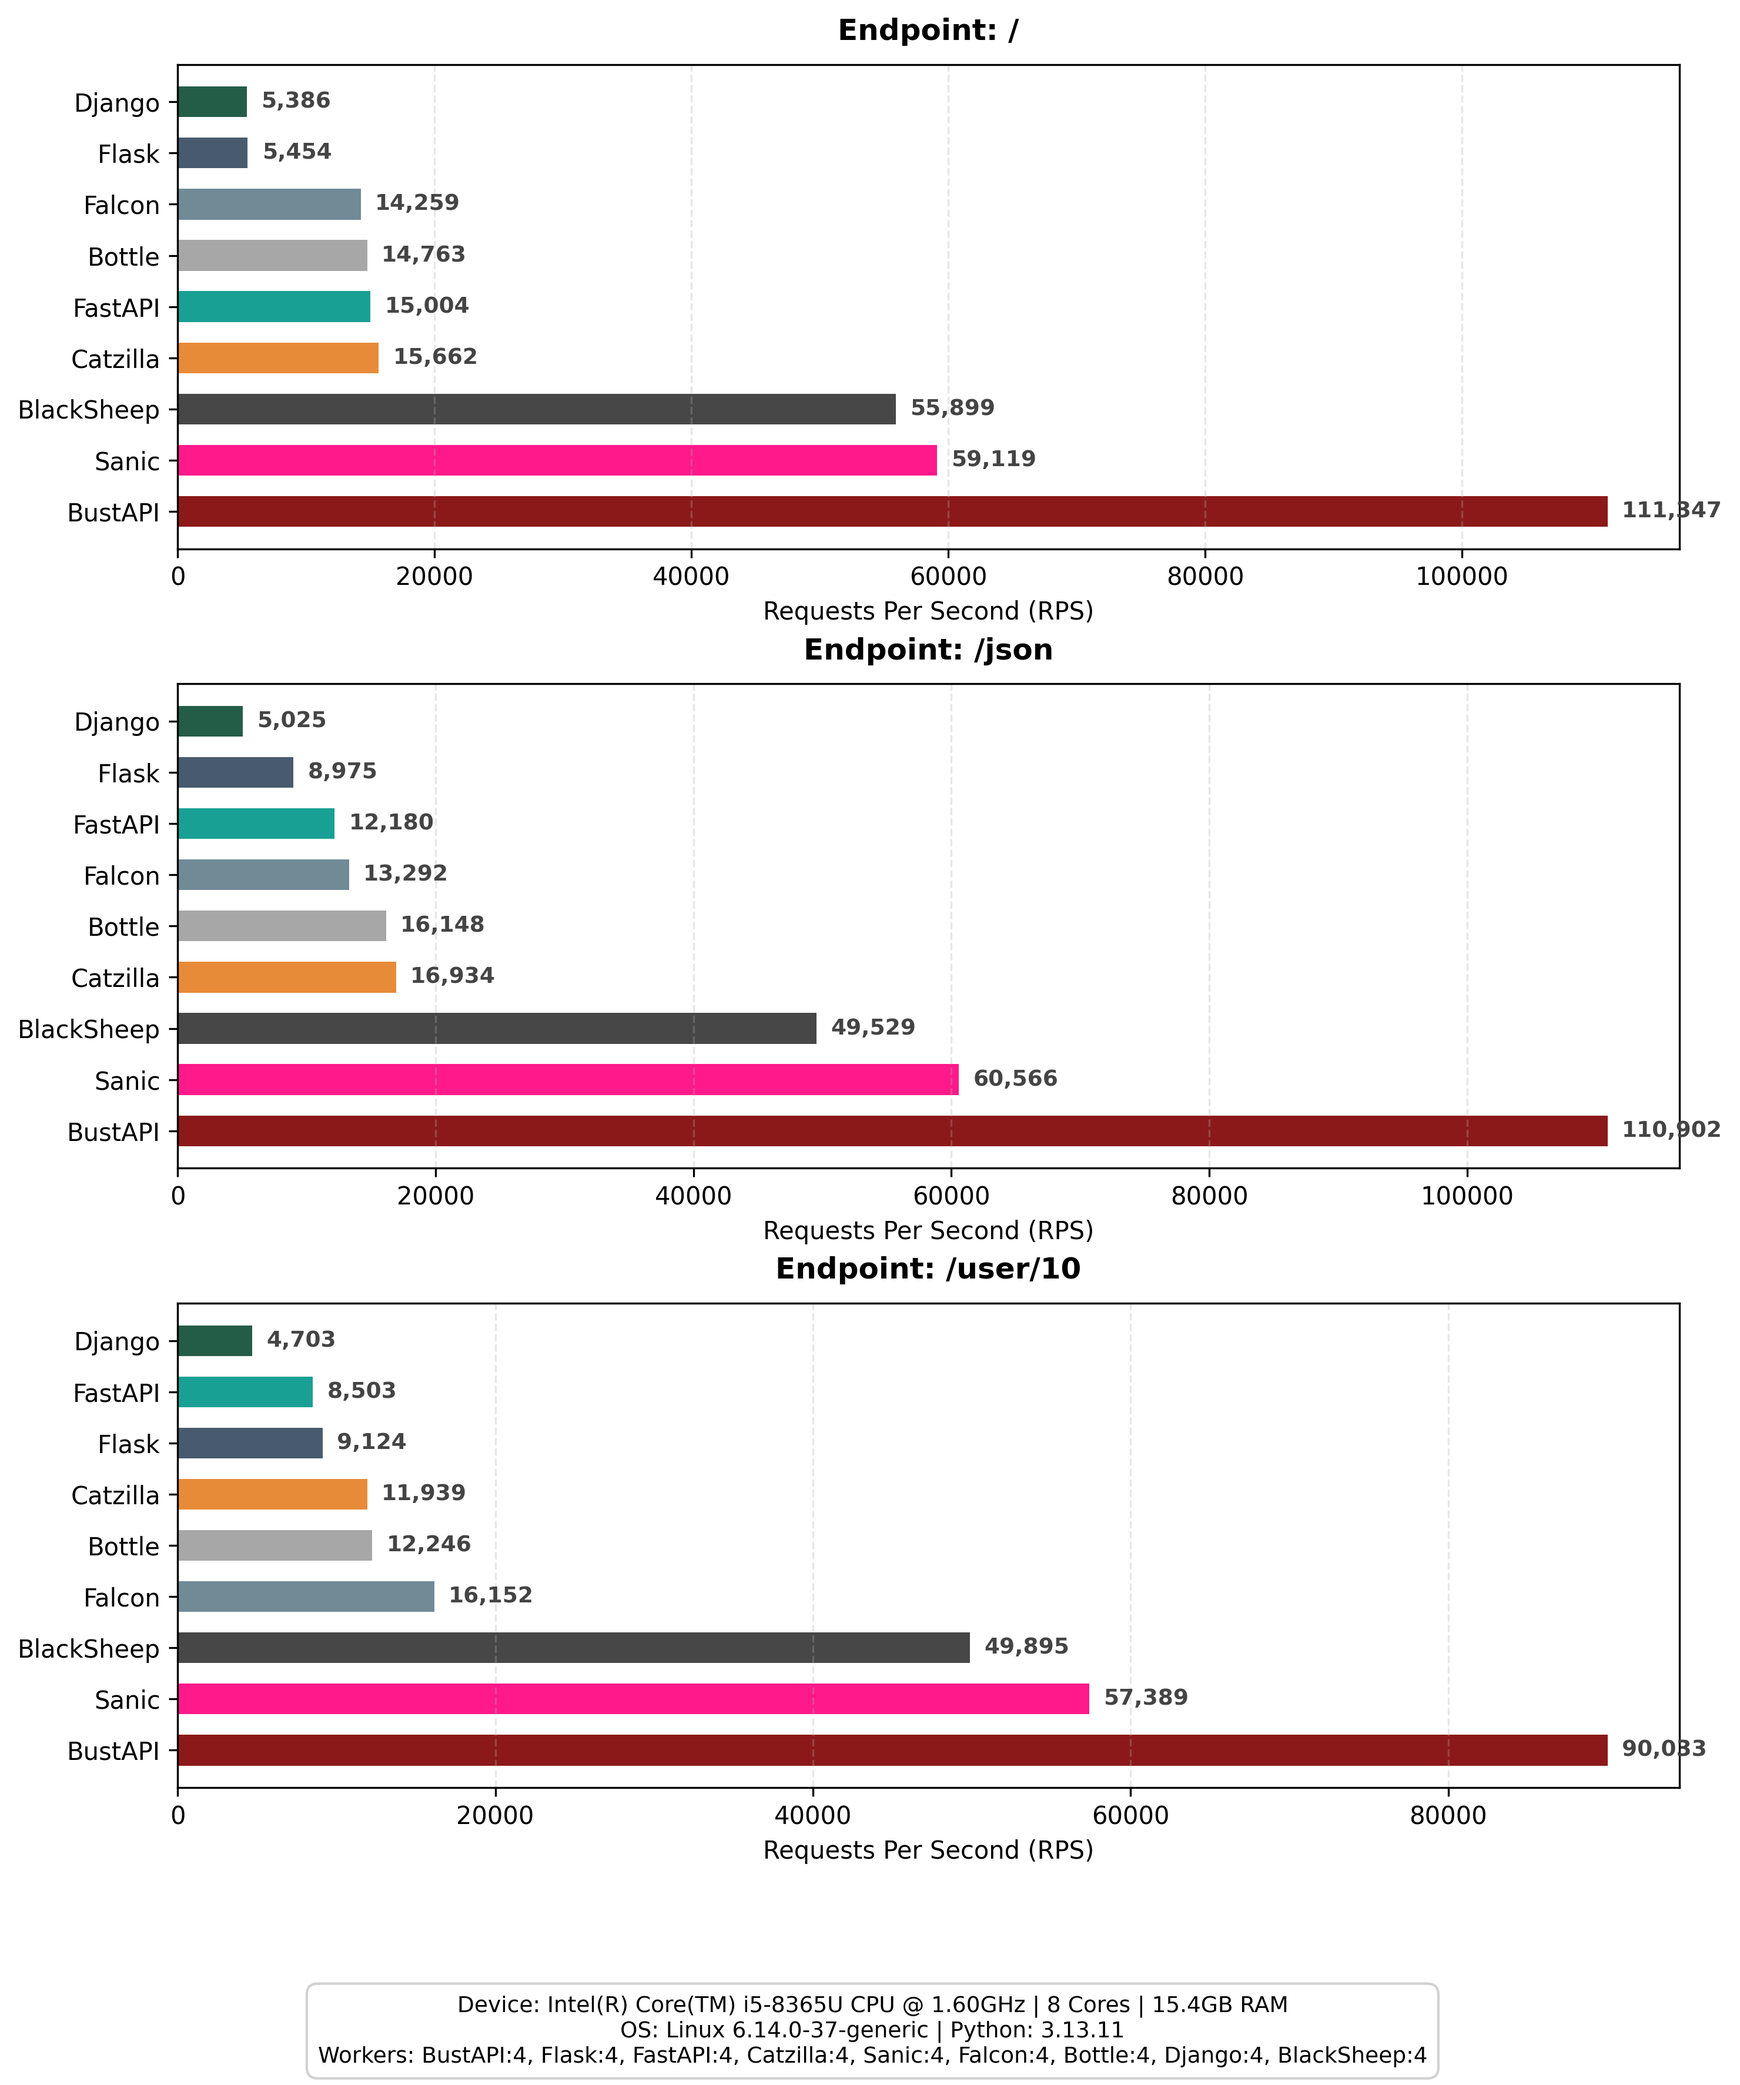
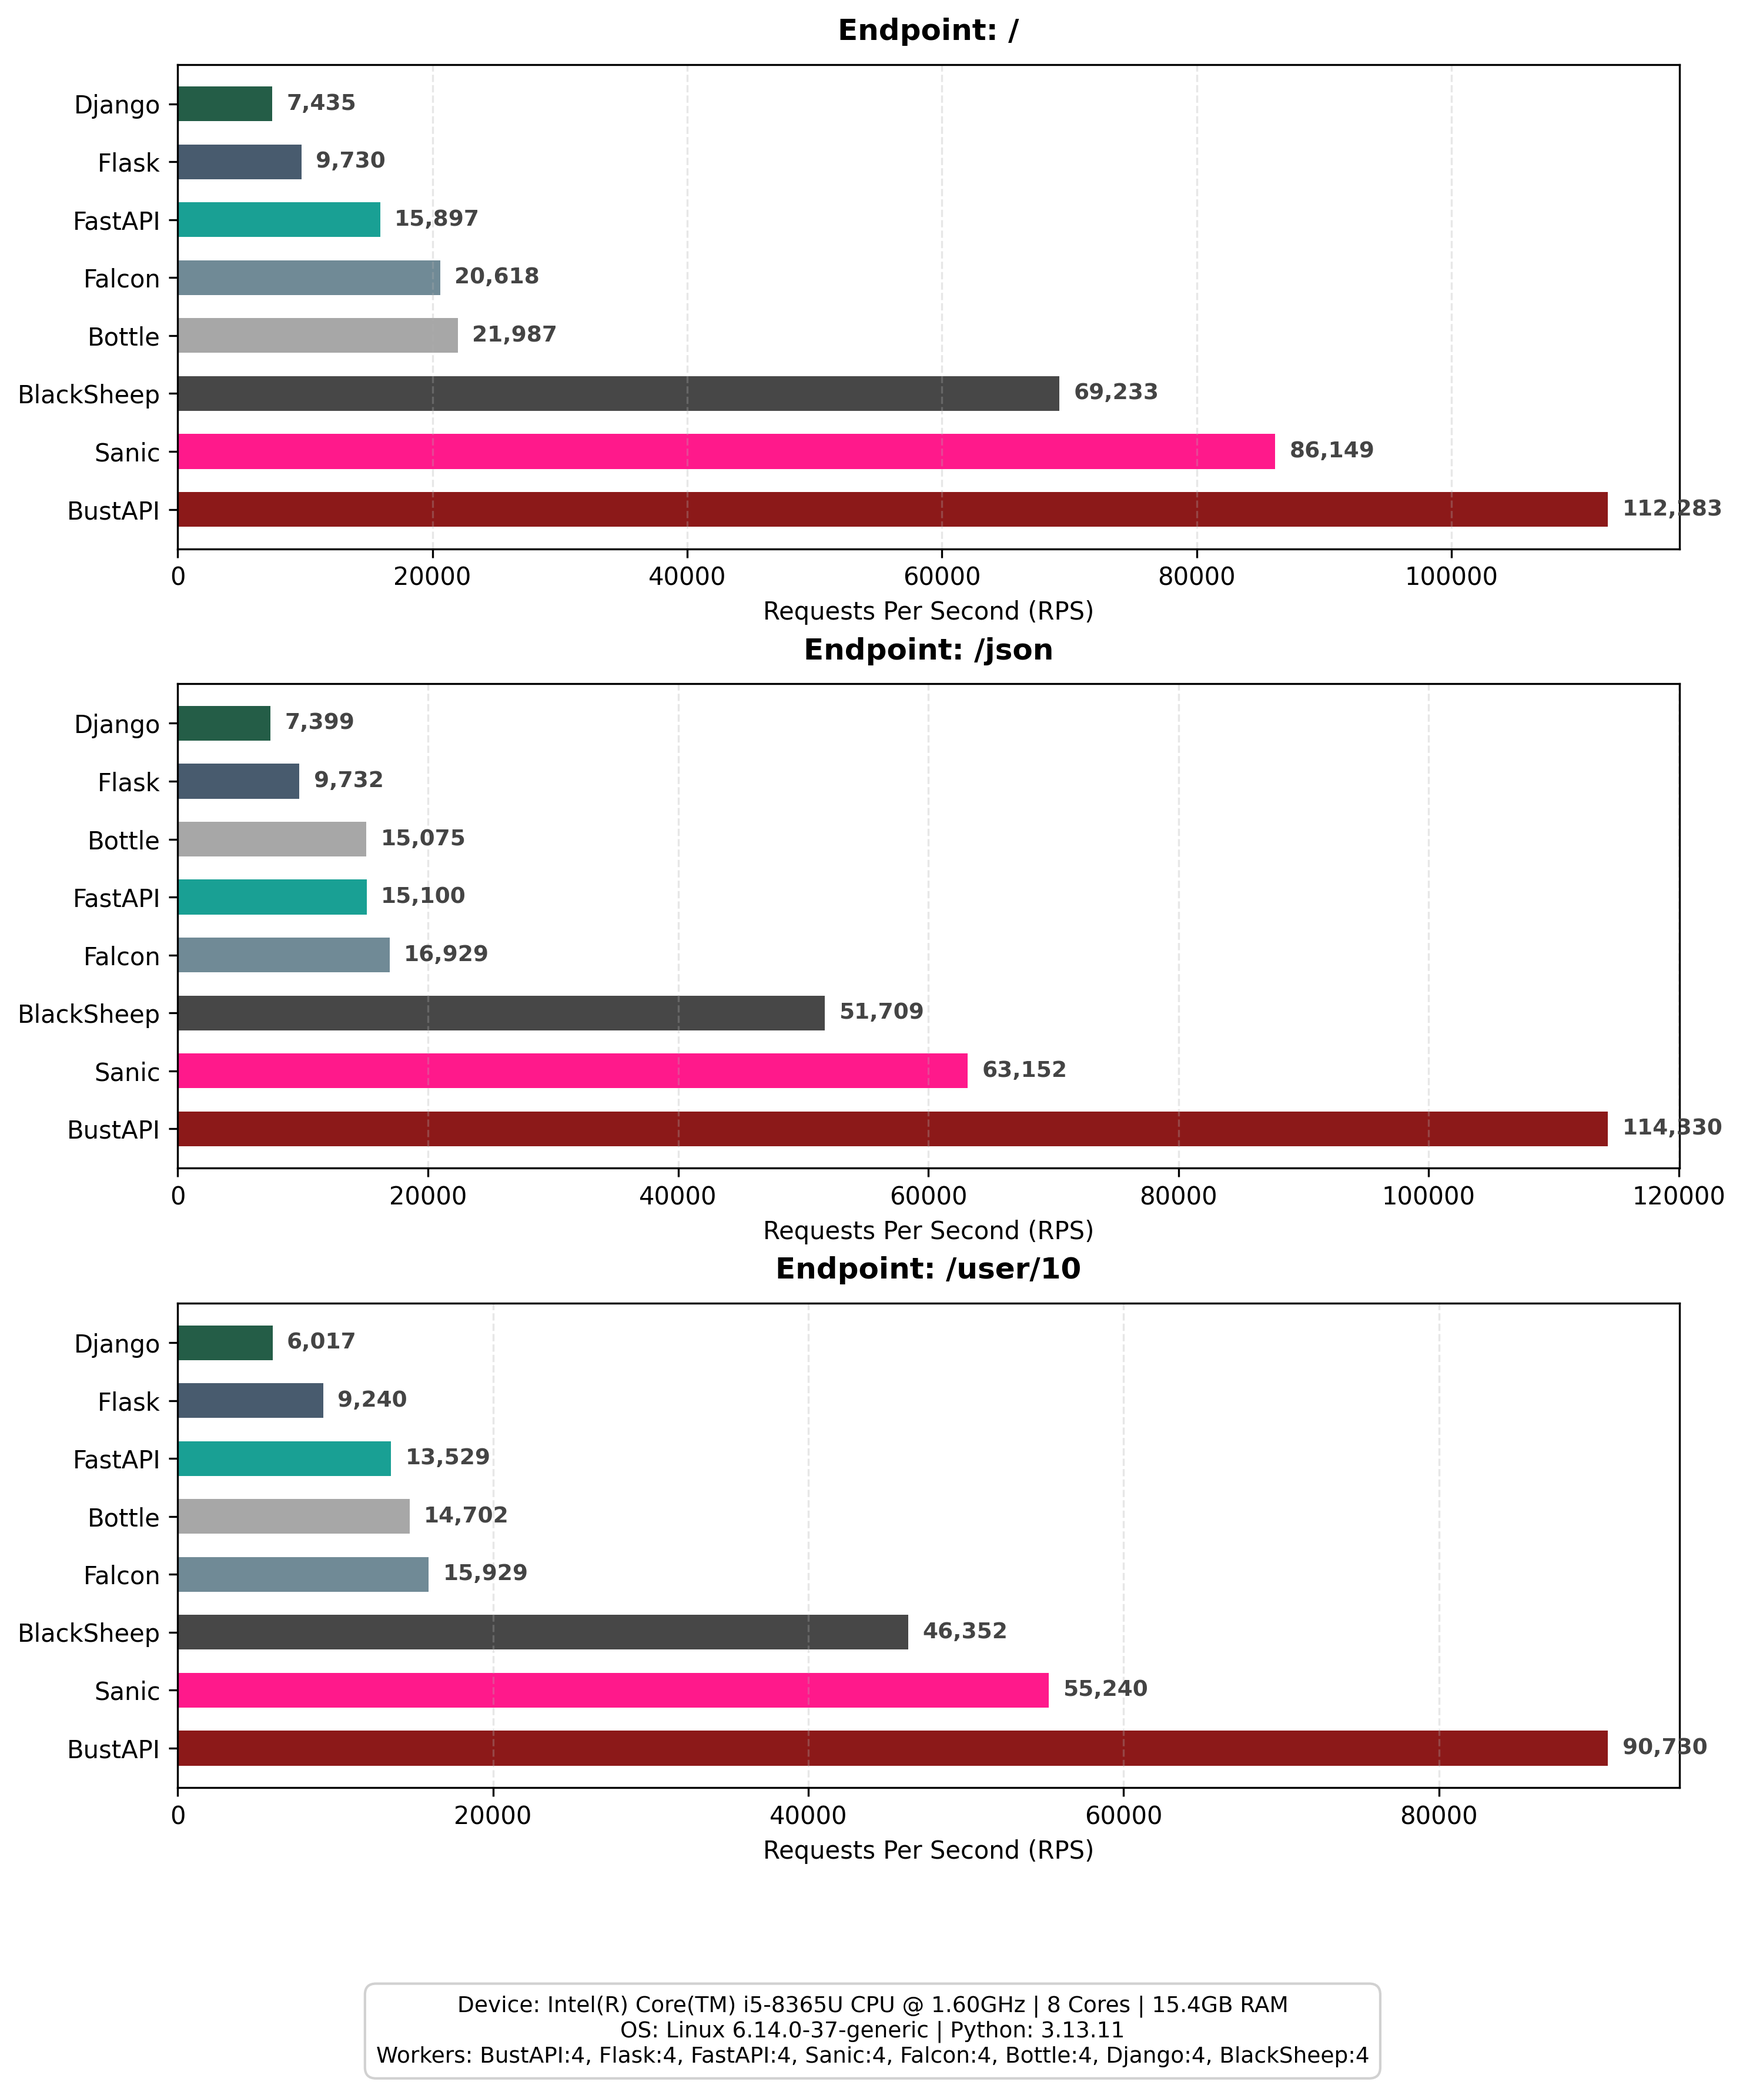
Update benchmarks and examples

diff --git a/examples/advanced/27_video_stream.py b/examples/advanced/27_video_stream.py
@@ -7,7 +7,8 @@ app = BustAPI(static_folder="static", root_path=os.getcwd())
 
 @app.route("/")
 def index():
-    return HTMLResponse("""
+    return HTMLResponse(
+        """
     <!DOCTYPE html>
     <html>
     <body>
@@ -28,7 +29,8 @@ def index():
         </video>
     </body>
     </html>
-    """)
+    """
+    )
 
 
 @app.route("/video/dynamic")

diff --git a/benchmarks/README.md b/benchmarks/README.md
@@ -1,6 +1,6 @@
 # ⚡ Ultimate Web Framework Benchmark
 
-> **Date:** 2026-01-22 | **Tool:** `wrk`
+> **Date:** 2026-01-27 | **Tool:** `wrk`
 
 ## 🖥 System Spec
 - **OS:** `Linux 6.14.0-37-generic`
@@ -10,29 +10,29 @@
 
 ## 🏆 Throughput (Requests/sec)
 
-| Endpoint | Metrics | BustAPI (4w) | Catzilla (4w) | Flask (4w) | FastAPI (4w) | Sanic (4w) | Falcon (4w) | Bottle (4w) | Django (4w) | BlackSheep (4w) |
-| :--- | :--- | :---: | :---: | :---: | :---: | :---: | :---: | :---: | :---: | :---: |
-| **`/`** | 🚀 RPS | 🥇 **111,348** | **15,662** | **5,455** | **15,004** | **59,119** | **14,259** | **14,763** | **5,386** | **55,899** |
-|  | ⏱ Avg Latency | 0.90ms | 7.19ms | 17.80ms | 6.93ms | 1.68ms | 6.68ms | 6.59ms | 18.60ms | 1.81ms |
-|  | 📉 Max Latency | 7.53ms | 208.01ms | 48.79ms | 74.74ms | 16.08ms | 19.86ms | 24.03ms | 74.42ms | 28.45ms |
-|  | 📦 Transfer | 13.70 MB/s | 2.21 MB/s | 0.86 MB/s | 2.10 MB/s | 6.60 MB/s | 2.15 MB/s | 2.34 MB/s | 0.95 MB/s | 7.84 MB/s |
-|  | 🔥 CPU Usage | 380% | 96% | 373% | 405% | 382% | 371% | 374% | 377% | 385% |
-|  | 🧠 RAM Usage | 160.8 MB | 437.9 MB | 159.7 MB | 253.9 MB | 243.2 MB | 147.7 MB | 126.0 MB | 187.9 MB | 218.6 MB |
-| | | --- | --- | --- | --- | --- | --- | --- | --- | --- |
-| **`/json`** | 🚀 RPS | 🥇 **110,903** | **16,935** | **8,976** | **12,180** | **60,566** | **13,292** | **16,148** | **5,025** | **49,529** |
-|  | ⏱ Avg Latency | 0.97ms | 8.93ms | 10.84ms | 8.49ms | 1.72ms | 7.22ms | 6.10ms | 19.67ms | 2.19ms |
-|  | 📉 Max Latency | 20.29ms | 301.74ms | 31.05ms | 80.07ms | 45.85ms | 20.94ms | 26.11ms | 41.03ms | 79.80ms |
-|  | 📦 Transfer | 13.22 MB/s | 1.82 MB/s | 1.40 MB/s | 1.65 MB/s | 6.47 MB/s | 2.07 MB/s | 2.51 MB/s | 0.87 MB/s | 6.71 MB/s |
-|  | 🔥 CPU Usage | 379% | 97% | 386% | 396% | 384% | 645% | 377% | 380% | 385% |
-|  | 🧠 RAM Usage | 160.0 MB | 891.7 MB | 159.8 MB | 255.4 MB | 243.3 MB | 148.0 MB | 126.3 MB | 188.1 MB | 219.2 MB |
-| | | --- | --- | --- | --- | --- | --- | --- | --- | --- |
-| **`/user/10`** | 🚀 RPS | 🥇 **90,033** | **11,940** | **9,125** | **8,503** | **57,390** | **16,153** | **12,246** | **4,703** | **49,896** |
-|  | ⏱ Avg Latency | 1.11ms | 8.89ms | 10.61ms | 11.77ms | 1.72ms | 5.91ms | 8.14ms | 21.07ms | 2.13ms |
-|  | 📉 Max Latency | 4.63ms | 199.34ms | 24.78ms | 47.64ms | 17.85ms | 20.25ms | 57.35ms | 70.04ms | 66.02ms |
-|  | 📦 Transfer | 10.48 MB/s | 1.69 MB/s | 1.39 MB/s | 1.13 MB/s | 5.97 MB/s | 2.46 MB/s | 1.87 MB/s | 0.80 MB/s | 6.61 MB/s |
-|  | 🔥 CPU Usage | 381% | 96% | 385% | 383% | 385% | 379% | 377% | 364% | 385% |
-|  | 🧠 RAM Usage | 157.9 MB | 1211.4 MB | 159.8 MB | 256.6 MB | 243.4 MB | 148.0 MB | 126.6 MB | 188.1 MB | 219.8 MB |
-| | | --- | --- | --- | --- | --- | --- | --- | --- | --- |
+| Endpoint | Metrics | BustAPI (4w) | Flask (4w) | FastAPI (4w) | Sanic (4w) | Falcon (4w) | Bottle (4w) | Django (4w) | BlackSheep (4w) |
+| :--- | :--- | :---: | :---: | :---: | :---: | :---: | :---: | :---: | :---: |
+| **`/`** | 🚀 RPS | 🥇 **112,283** | **9,731** | **15,898** | **86,150** | **20,619** | **21,987** | **7,435** | **69,234** |
+|  | ⏱ Avg Latency | 0.91ms | 9.96ms | 6.96ms | 1.19ms | 4.60ms | 4.43ms | 13.35ms | 1.47ms |
+|  | 📉 Max Latency | 16.48ms | 26.55ms | 99.00ms | 37.48ms | 18.05ms | 14.65ms | 44.27ms | 22.42ms |
+|  | 📦 Transfer | 13.81 MB/s | 1.54 MB/s | 2.23 MB/s | 9.61 MB/s | 3.11 MB/s | 3.48 MB/s | 1.30 MB/s | 9.71 MB/s |
+|  | 🔥 CPU Usage | 381% | 384% | 539% | 388% | 369% | 382% | 384% | 386% |
+|  | 🧠 RAM Usage | 162.3 MB | 158.4 MB | 279.6 MB | 244.1 MB | 151.5 MB | 143.5 MB | 204.8 MB | 224.2 MB |
+| | | --- | --- | --- | --- | --- | --- | --- | --- |
+| **`/json`** | 🚀 RPS | 🥇 **114,330** | **9,733** | **15,100** | **63,152** | **16,930** | **15,076** | **7,399** | **51,709** |
+|  | ⏱ Avg Latency | 0.87ms | 10.18ms | 6.48ms | 1.56ms | 5.90ms | 6.58ms | 13.09ms | 1.93ms |
+|  | 📉 Max Latency | 4.59ms | 23.76ms | 29.11ms | 10.44ms | 27.68ms | 29.96ms | 29.74ms | 21.15ms |
+|  | 📦 Transfer | 13.63 MB/s | 1.51 MB/s | 2.04 MB/s | 6.75 MB/s | 2.63 MB/s | 2.34 MB/s | 1.28 MB/s | 7.00 MB/s |
+|  | 🔥 CPU Usage | 382% | 386% | 408% | 386% | 385% | 385% | 384% | 386% |
+|  | 🧠 RAM Usage | 161.5 MB | 158.4 MB | 280.2 MB | 244.2 MB | 151.5 MB | 143.8 MB | 205.1 MB | 224.5 MB |
+| | | --- | --- | --- | --- | --- | --- | --- | --- |
+| **`/user/10`** | 🚀 RPS | 🥇 **90,731** | **9,241** | **13,530** | **55,241** | **15,930** | **14,703** | **6,017** | **46,352** |
+|  | ⏱ Avg Latency | 1.07ms | 10.73ms | 7.38ms | 1.93ms | 6.14ms | 6.81ms | 16.09ms | 2.23ms |
+|  | 📉 Max Latency | 4.80ms | 24.51ms | 26.36ms | 66.16ms | 13.37ms | 29.87ms | 23.86ms | 64.51ms |
+|  | 📦 Transfer | 10.56 MB/s | 1.41 MB/s | 1.79 MB/s | 5.74 MB/s | 2.43 MB/s | 2.24 MB/s | 1.02 MB/s | 6.14 MB/s |
+|  | 🔥 CPU Usage | 384% | 385% | 406% | 386% | 386% | 496% | 385% | 474% |
+|  | 🧠 RAM Usage | 163.6 MB | 158.4 MB | 280.3 MB | 244.2 MB | 151.6 MB | 144.0 MB | 205.1 MB | 224.8 MB |
+| | | --- | --- | --- | --- | --- | --- | --- | --- |
 
 ## 📊 Performance Comparison
 ![RPS Comparison](rps_comparison.png)
